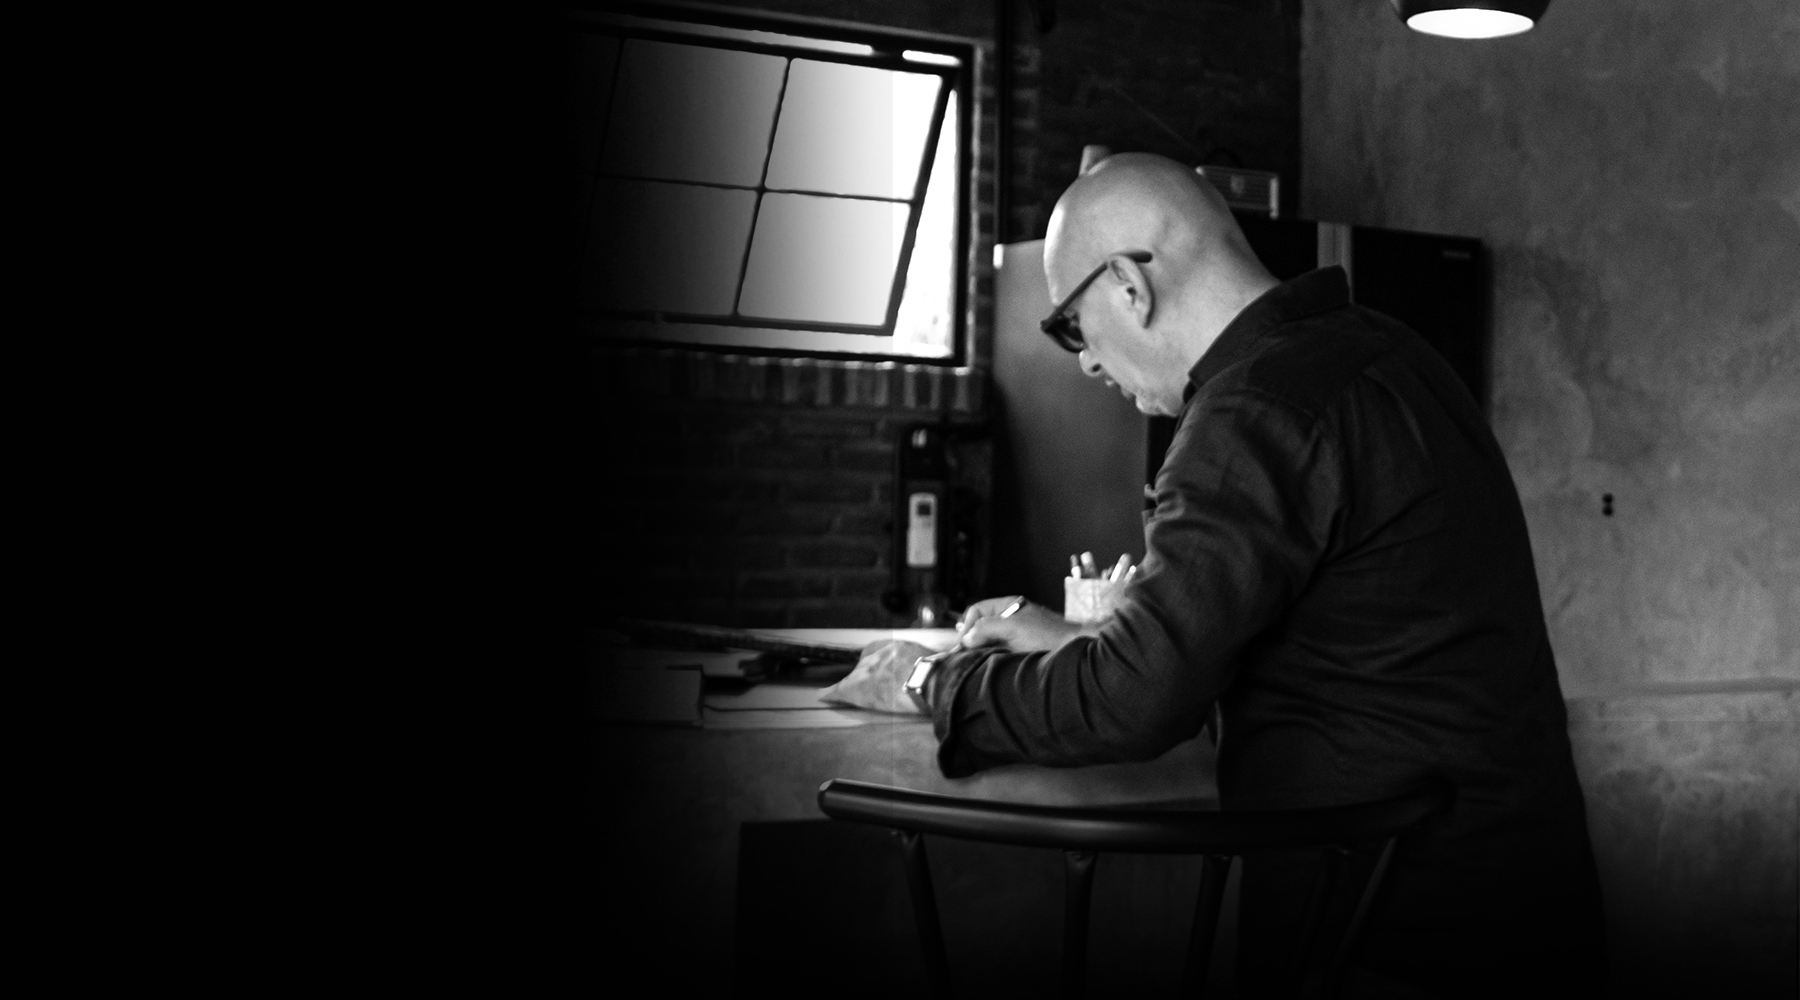
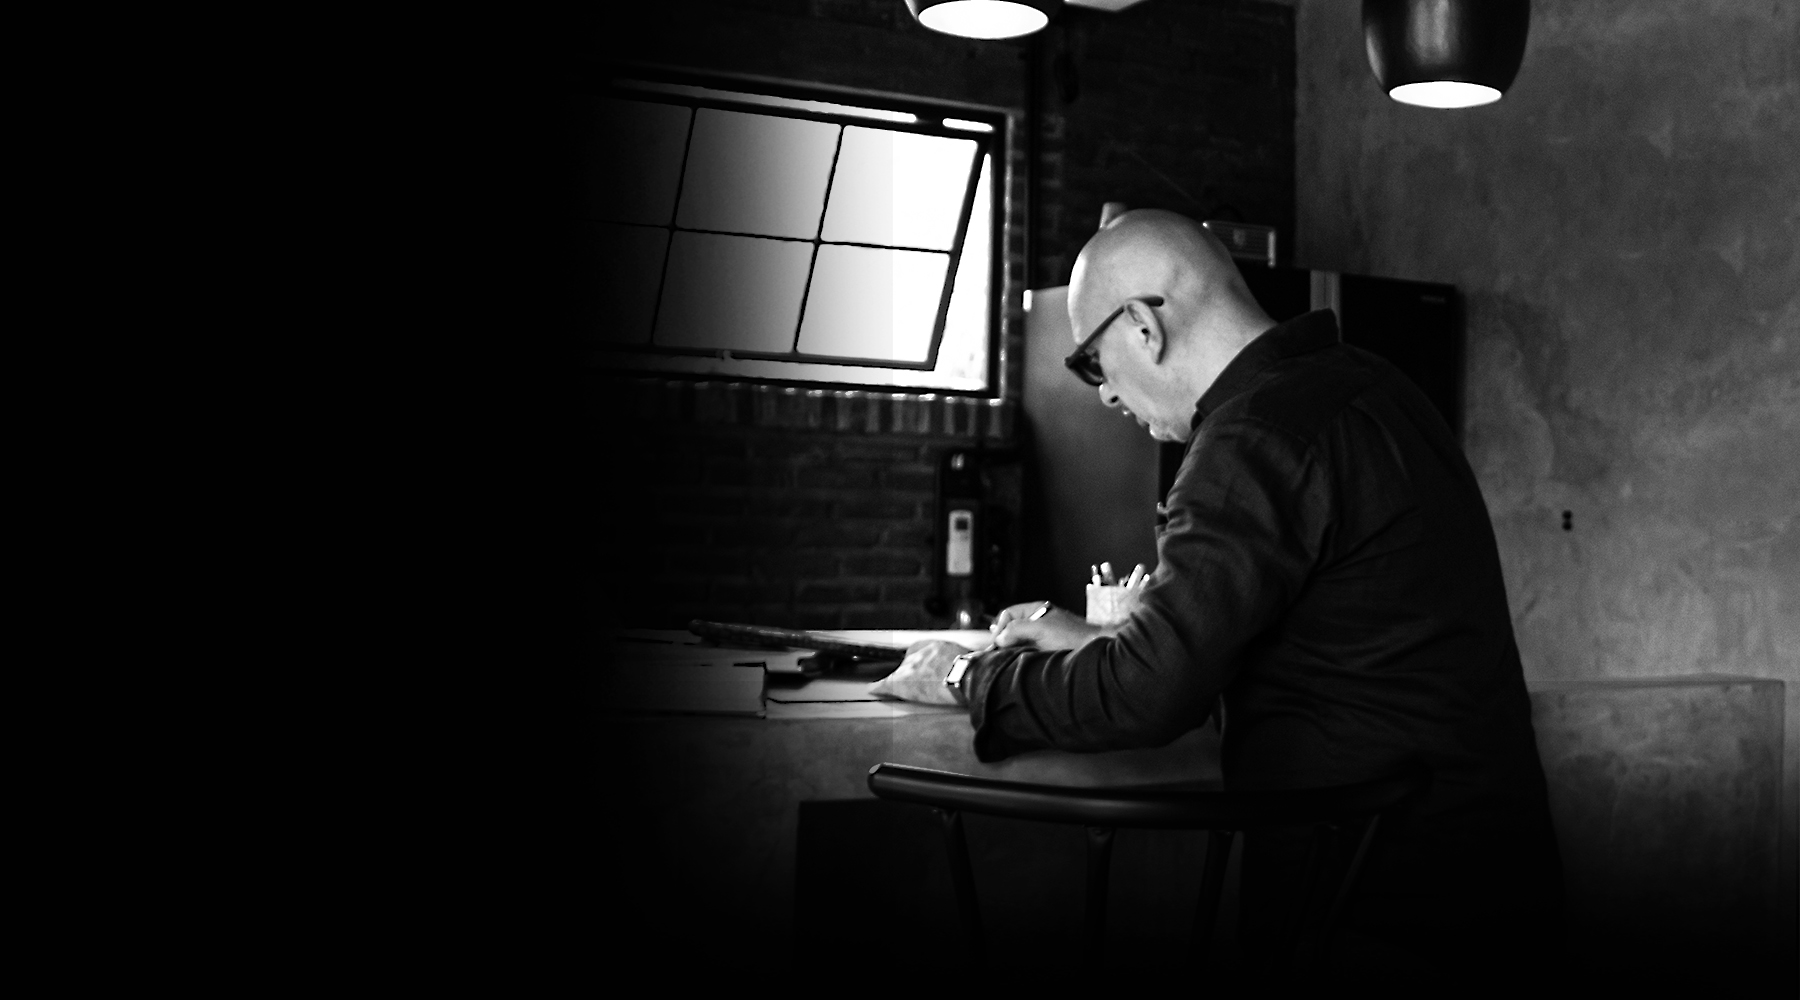
benerin gambar

diff --git a/header.html b/header.html
@@ -74,7 +74,7 @@
                             </div>
 
 
-                            <img src="img/banner2.png" alt="" id="banner2">
+                            <img src="img/banner2.jpg" alt="" id="banner2">
                              <img src="img/banner3.png" alt="" id="banner3">
 
                         </div>
@@ -105,7 +105,7 @@
                         </div>
 
                         <div class="banner67 col-xl-6">
-                            <img src="img/nbanner6.png" alt="" id="g-6">
+                            <img src="img/banner6.jpg" alt="" id="g-6">
                             <img src="img/nbanner7.png" alt="" id="g-7">
                         </div>
                     </div>
